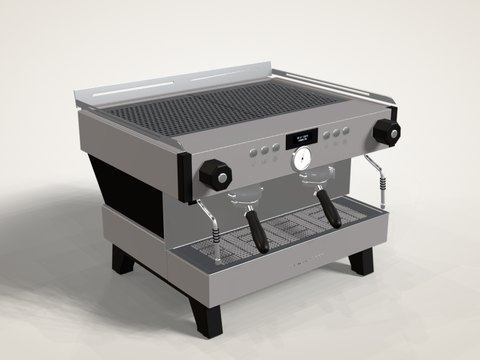
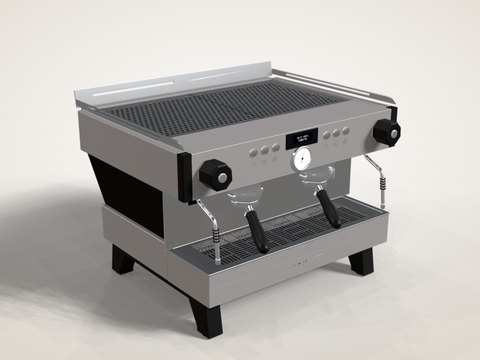
Detailprüfung aller Geräte: Schriftzüge und Tropfschalen korrigiert
- Schriftzüge mit eigener Maske (GS3 hinten, Niche-Logo, ROCKET) wurden
  als volle Fläche gezeichnet, weil die Materialverwaltung ein bereits
  vorhandenes Material desselben Bauteils ohne Maske wiederverwendet hat
  (GS3: goldenes Rechteck statt „GS3“). Materialien mit Maske werden
  jetzt getrennt geführt.
- Rocket: Schriftzug hinten als ein senkrechtes ROCKET mit untereinander
  stehenden Buchstaben (neue Maske makeStackedLogoTexture).
- Niche: Logo-Fläche passend zur Textmaske, „NICHE“ unverzerrt.
- Rocket und Linea PB/PB X: Tropfschalen als Schale mit dunklem
  Innenraum, die Löcher im Tropfblech erscheinen dunkel statt hell.
- Vorschaubilder der geänderten Geräte neu.

Claude-Session: https://claude.ai/code/session_01XVE81muw7HYcqaEMYwBuXM

Changed region(s): [[0.4062, 0.55, 0.7812, 0.7333]]

diff --git a/js/devices/rocket.js b/js/devices/rocket.js
@@ -403,7 +403,11 @@ function buildRocket(mm) {
   {
     const z0 = -60;
     const z1 = 169.5;
-    B.add(boxProjectUV(plateY(filletShape([[-HW + 1, z0], [HW - 1, z0], [HW - 1, z1], [-HW + 1, z1]], [0, 0, 3, 3], 3), 22, 77, 1)), trayMat, S('metal.tray'));
+    B.add(boxProjectUV(plateY(filletShape([[-HW + 1, z0], [HW - 1, z0], [HW - 1, z1], [-HW + 1, z1]], [0, 0, 3, 3], 3), 22, 64, 1)), trayMat, S('metal.tray'));
+    // Wände der Schale bis zum Rand (innen dunkel)
+    const wall = filletShape([[-HW + 1, z0], [HW - 1, z0], [HW - 1, z1], [-HW + 1, z1]], [0, 0, 3, 3], 3);
+    wall.holes.push(filletShape([[-HW + 4, z0 + 2], [HW - 4, z0 + 2], [HW - 4, z1 - 3], [-HW + 4, z1 - 3]], 1.5, 2));
+    B.add(boxProjectUV(plateY(wall, 85, 15, 0.4)), trayMat, S('metal.tray'));
     const rim = filletShape([[-HW + 1, z0], [HW - 1, z0], [HW - 1, z1], [-HW + 1, z1]], [0, 0, 3, 3], 3);
     rim.holes.push(filletShape([[-HW + 6, z0 + 4], [HW - 6, z0 + 4], [HW - 6, z1 - 5], [-HW + 6, z1 - 5]], 1.5, 2));
     B.add(boxProjectUV(plateY(rim, 99, 6, 0.6)), trayMat, S('metal.tray'));
@@ -415,7 +419,7 @@ function buildRocket(mm) {
     const g = new THREE.PlaneGeometry(W, D);
     g.rotateX(-Math.PI / 2);
     B.add(g, mat('metal.tray', { map: tex, alphaTest: 0.5, alphaToCoverage: true, side: THREE.DoubleSide, shadowSide: THREE.DoubleSide }), S('metal.tray')).position.set(0, 102.5, z0 + 4 + D / 2);
-    B.plain(new THREE.BoxGeometry(W - 2, 1, D - 2), F.trayInner).position.set(0, 96, z0 + 4 + D / 2);
+    B.plain(new THREE.BoxGeometry(2 * HW - 7, 1, z1 - z0 - 4), F.trayInner).position.set(0, 87, z0 + (z1 - z0) / 2);
   }
 
   // =========================================================================
@@ -466,13 +470,11 @@ function buildRocket(mm) {
   // =========================================================================
   B.stage('logo');
   {
-    const letters = 'ROCKET';
-    for (let i = 0; i < letters.length; i++) {
-      const mk = logoFactory(B, S('metal.logo'), 30, 22, letters[i]);
-      const l = mk(3);
-      l.rotation.y = Math.PI;
-      l.position.set(0, 290 - i * 33, ZR - 0.05);
-    }
+    // Buchstaben untereinander, je ca. 22 mm hoch, mittig auf der Rückwand
+    const mk = logoFactory(B, S('metal.logo'), 26, 26 * 6, 'ROCKET', { stacked: true });
+    const l = mk(3);
+    l.rotation.y = Math.PI;
+    l.position.set(0, 196, ZR - 0.05);
   }
 
   // =========================================================================

diff --git a/js/parts.js b/js/parts.js
@@ -9,7 +9,7 @@
 // ---------------------------------------------------------------------------
 import * as THREE from 'three';
 import { rbox, slottedScrewHead, boxProjectUV, mergeGeos } from './model.js';
-import { makeGaugeTexture, gaugeAngle, makeLogoTexture } from './textures.js';
+import { makeGaugeTexture, gaugeAngle, makeLogoTexture, makeStackedLogoTexture } from './textures.js';
 import { needleById } from './data.js';
 
 export const WOOD_U = 160;
@@ -495,9 +495,11 @@ export function screwSet(B, slot, { R = 4.9, H = 3.3 } = {}) {
 // Erhabener Schriftzug (mehrere Lagen einer Maske; auch aus Holz möglich)
 // ---------------------------------------------------------------------------
 const logoTextures = new Map();
-export function logoFactory(B, slot, w, h, text = 'LA MARZOCCO') {
-  if (!logoTextures.has(text)) logoTextures.set(text, makeLogoTexture(text));
-  const mat = B.mm.get(slot, { alphaMap: logoTextures.get(text), alphaTest: 0.4, alphaToCoverage: true });
+/** Schriftzug als Maske; { stacked: true } setzt die Buchstaben untereinander (Fläche w × w·n) */
+export function logoFactory(B, slot, w, h, text = 'LA MARZOCCO', { stacked = false } = {}) {
+  const key = (stacked ? 'v:' : 'h:') + text;
+  if (!logoTextures.has(key)) logoTextures.set(key, stacked ? makeStackedLogoTexture(text) : makeLogoTexture(text));
+  const mat = B.mm.get(slot, { alphaMap: logoTextures.get(key), alphaTest: 0.4, alphaToCoverage: true });
   mat.userData.logo = { w, h };
   const geo = new THREE.PlaneGeometry(w, h);
   return (layers = 6, parent = B.root) => {

diff --git a/js/devices/linea-pb.js b/js/devices/linea-pb.js
@@ -304,7 +304,11 @@ function makeBuilder(ID, version) {
       // ---------------- Tropfschale (C.1.151) mit Lochblech (C.1.157) ----------------
       B.stage('drip');
       {
-        B.add(boxProjectUV(rbox(2 * (H - 42), 88, 182, 3, 3)), body, S('body.main')).position.set(0, 105 + 44, 91);
+        // Schale: Boden und Wände (innen dunkel, damit das Lochblech nicht hell durchscheint)
+        B.add(boxProjectUV(rbox(2 * (H - 42), 52, 182, 3, 3)), body, S('body.main')).position.set(0, 105 + 26, 91);
+        const walls = filletShape([[-(H - 42), 0], [H - 42, 0], [H - 42, 182], [-(H - 42), 182]], 3, 3);
+        walls.holes.push(filletShape([[-(H - 46), 4], [H - 46, 4], [H - 46, 178], [-(H - 46), 178]], 1.5, 2));
+        B.add(boxProjectUV(plateY(walls, 154, 39, 0.8)), body, S('body.main'));
         const GW = 2 * (H - 57);
         const GD = 160.2;
         const fields = [];
@@ -332,7 +336,7 @@ function makeBuilder(ID, version) {
         hole.closePath();
         rim.holes.push(hole);
         B.add(boxProjectUV(plateY(rim, 192, 4, 1)), mat('metal.grates'), S('metal.grates'));
-        B.plain(new THREE.BoxGeometry(GW - 4, 1, GD - 4), F.trayInner).position.set(0, 160, 9.1 + GD / 2);
+        B.plain(new THREE.BoxGeometry(2 * (H - 47), 1, 172), F.trayInner).position.set(0, 158, 91);
       }
       // ---------------- Tassenablage (C.1.164): Lochbleche mit runden Löchern ----------------
       B.stage('tray');

diff --git a/js/textures.js b/js/textures.js
@@ -512,6 +512,22 @@ export function makeLogoTexture(text) {
   return finishTexture(c, false);
 }
 
+/** Schriftzug mit untereinander stehenden Buchstaben (z. B. senkrechtes ROCKET), Zelle 128 × 128 */
+export function makeStackedLogoTexture(text) {
+  const chars = [...text];
+  const S = 128;
+  const c = makeCanvas(S, S * chars.length);
+  const ctx = c.getContext('2d');
+  ctx.fillStyle = '#000000';
+  ctx.fillRect(0, 0, S, S * chars.length);
+  ctx.fillStyle = '#ffffff';
+  ctx.font = '900 104px "Inter", "Arial Black", "Helvetica Neue", Arial, sans-serif';
+  ctx.textAlign = 'center';
+  ctx.textBaseline = 'middle';
+  chars.forEach((ch, i) => ctx.fillText(ch, S / 2, S * i + S / 2 + 6));
+  return finishTexture(c, false);
+}
+
 export function makeDisplayTexture() {
   const W = 256;
   const H = 160;

diff --git a/js/materials.js b/js/materials.js
@@ -22,7 +22,9 @@ export class MaterialManager {
   get(slot, extra = {}) {
     const list = this.slots.get(slot) || [];
     if (!extra.map) {
-      const plain = list.find((m) => !m.userData.baseMap);
+      // Schriftzüge mit Maske (alphaMap) bekommen je Maske ein eigenes Material,
+      // sonst würde ein vorhandenes Material ohne Maske (volle Fläche) zurückgegeben
+      const plain = list.find((m) => !m.userData.baseMap && (m.alphaMap || null) === (extra.alphaMap || null));
       if (plain) return plain;
     }
     const mat = new THREE.MeshPhysicalMaterial({ color: 0xffffff, ...extra });

diff --git a/js/devices/niche.js b/js/devices/niche.js
@@ -361,7 +361,7 @@ function makeNicheBuilder(V) {
       r.position.set(lx, ly, lz + 1.2);
       const disk = B.plain(new THREE.CylinderGeometry(21 * sx, 21 * sx, 2.4, 48).rotateX(Math.PI / 2), F.blackPlastic);
       disk.position.set(lx, ly, lz);
-      const mk = logoFactory(B, S('metal.logo'), 31 * sx, 7.5 * sx, 'NICHE');
+      const mk = logoFactory(B, S('metal.logo'), 72 * sx, 9 * sx, 'NICHE'); // Textmaske 8:1, Schrift ca. 30 mm breit
       const l = mk(2);
       l.position.set(lx, ly, lz + 1.2);
     }
